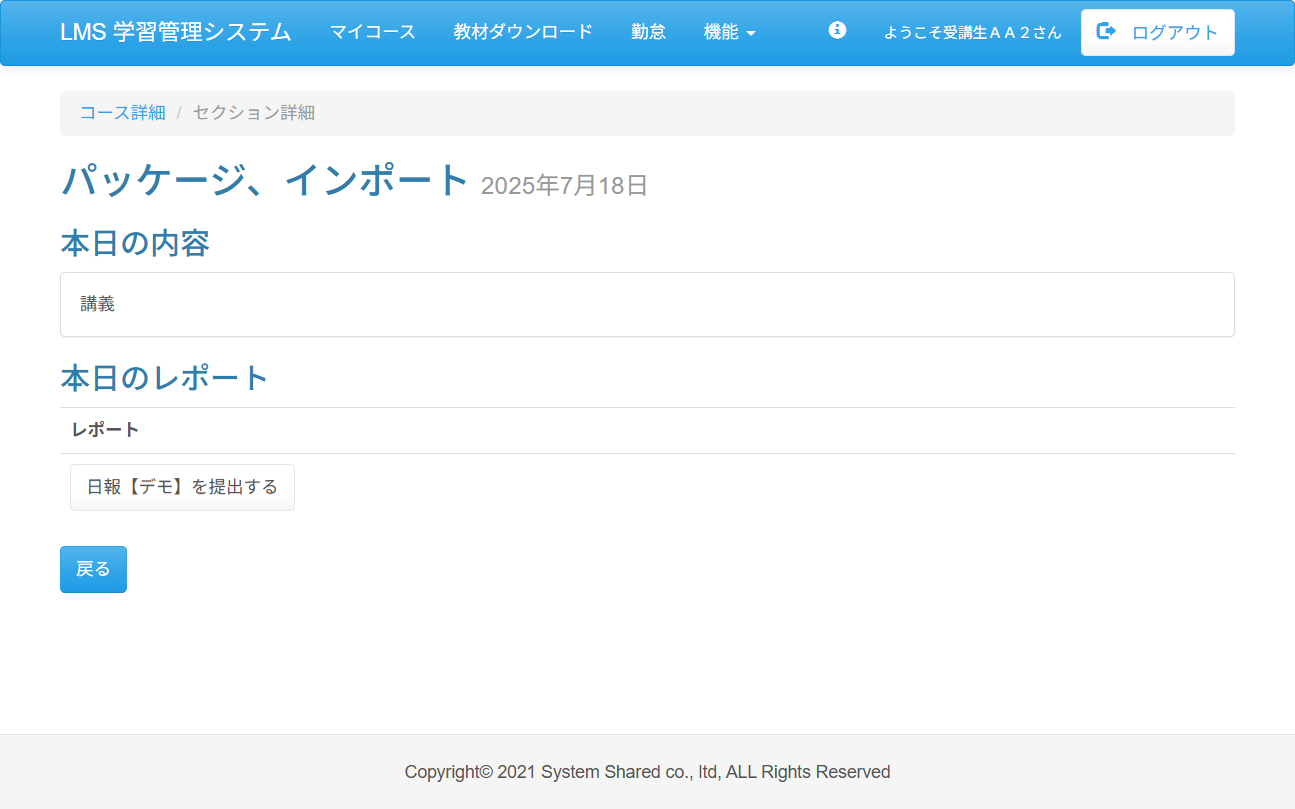
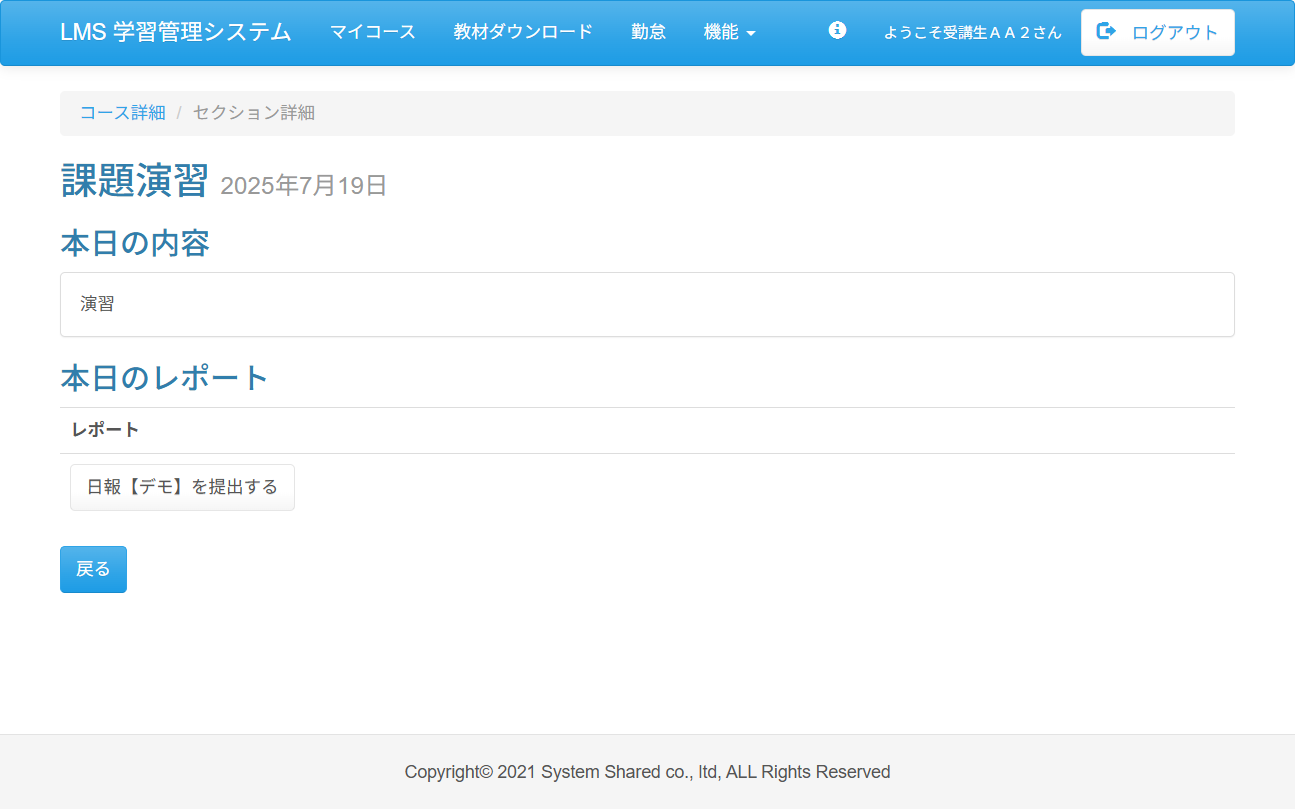
fix:Case7.埜本明希　受講生ユーザーでのログイン機能箇所の変更、タイトル比較による画面遷移のテストでログインを確認するように変更。上記テストコードのエビデンスの変更。期待値は以下の通り　タイトル：コース詳細　|　LMS

Changed region(s): [[0.0309, 0.1854, 0.4942, 0.2472], [0.0618, 0.3399, 0.0927, 0.4017]]

diff --git a/test_code_creation_name/src/test/java/jp/co/sss/lms/ct/f03_report/Case07.java b/test_code_creation_name/src/test/java/jp/co/sss/lms/ct/f03_report/Case07.java
@@ -31,6 +31,8 @@ public class Case07 {
 
 	String title = "ログイン | LMS";
 
+	String courseTitle = "コース詳細 | LMS";
+
 	String helptitle = "ヘルプ | LMS";
 
 	String questiontitle = "よくある質問 | LMS";
@@ -62,6 +64,10 @@ public class Case07 {
 		// TODO ここに追加
 		goTo(url);
 
+		final WebDriverWait wait = new WebDriverWait(webDriver, Duration.ofSeconds(5));
+
+		wait.until(ExpectedConditions.titleIs(title));
+
 		assertEquals(title, webDriver.getTitle());
 
 		getEvidence(new Object() {
@@ -83,10 +89,13 @@ public class Case07 {
 		loginId.sendKeys(id);
 		password.sendKeys(pass);
 
-		assertEquals("StudentAA02", id, "ログインIDが一致していません");
-		assertEquals("StudentAA022", pass, "passwordが一致していません");
-
 		loginClick.click();
+
+		final WebDriverWait wait = new WebDriverWait(webDriver, Duration.ofSeconds(5));
+
+		wait.until(ExpectedConditions.titleIs(courseTitle));
+
+		assertEquals(courseTitle, webDriver.getTitle());
 
 		getEvidence(new Object() {
 		});
